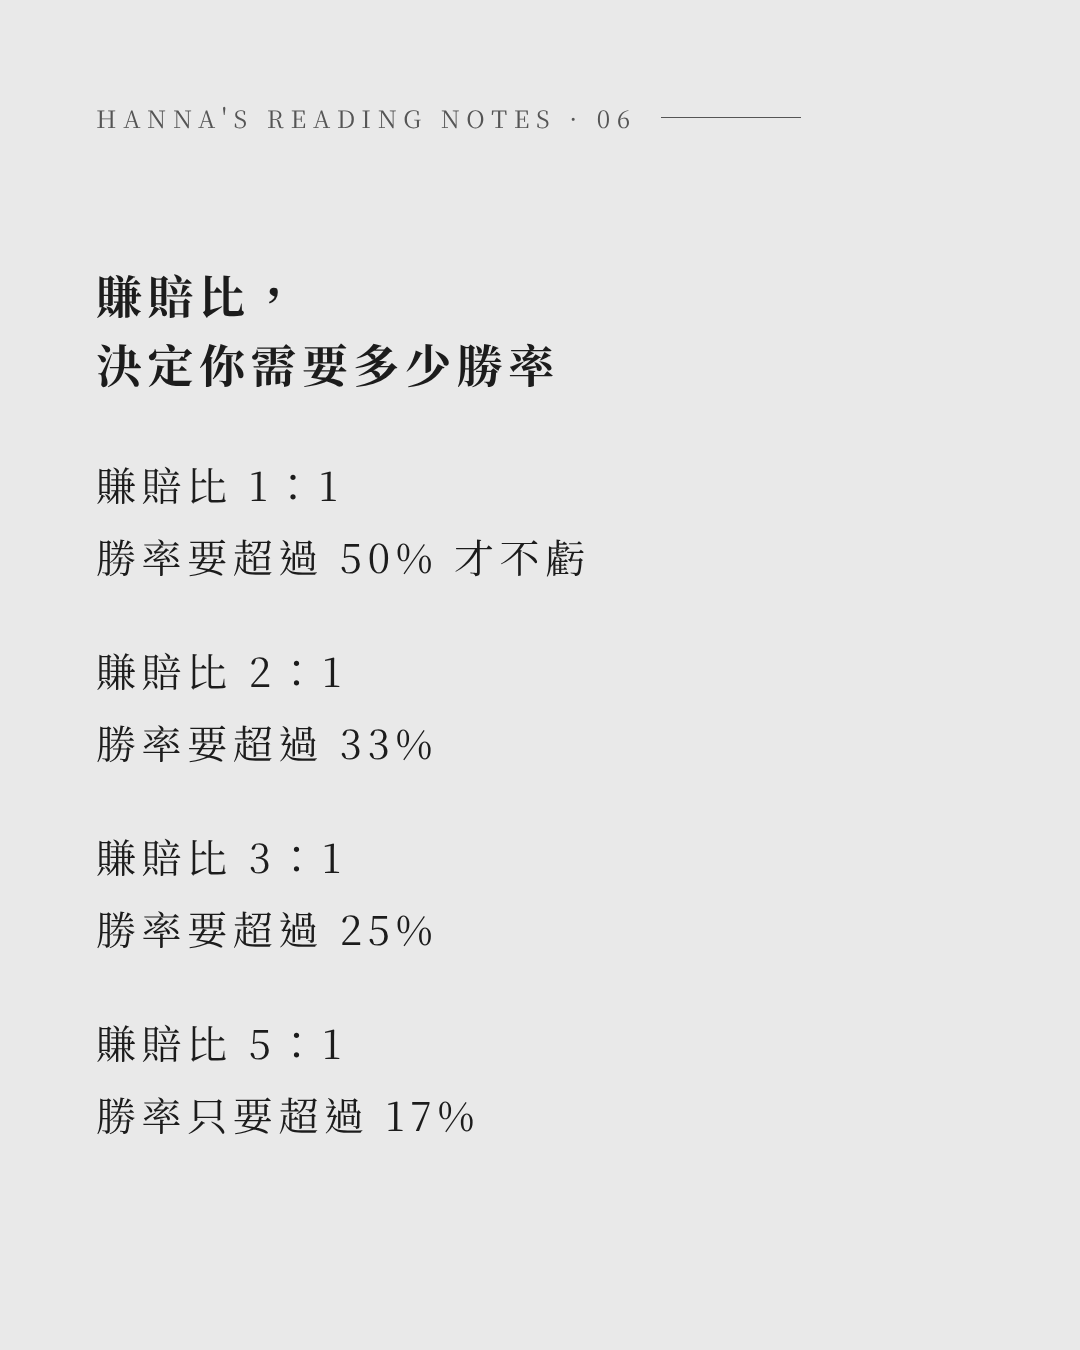
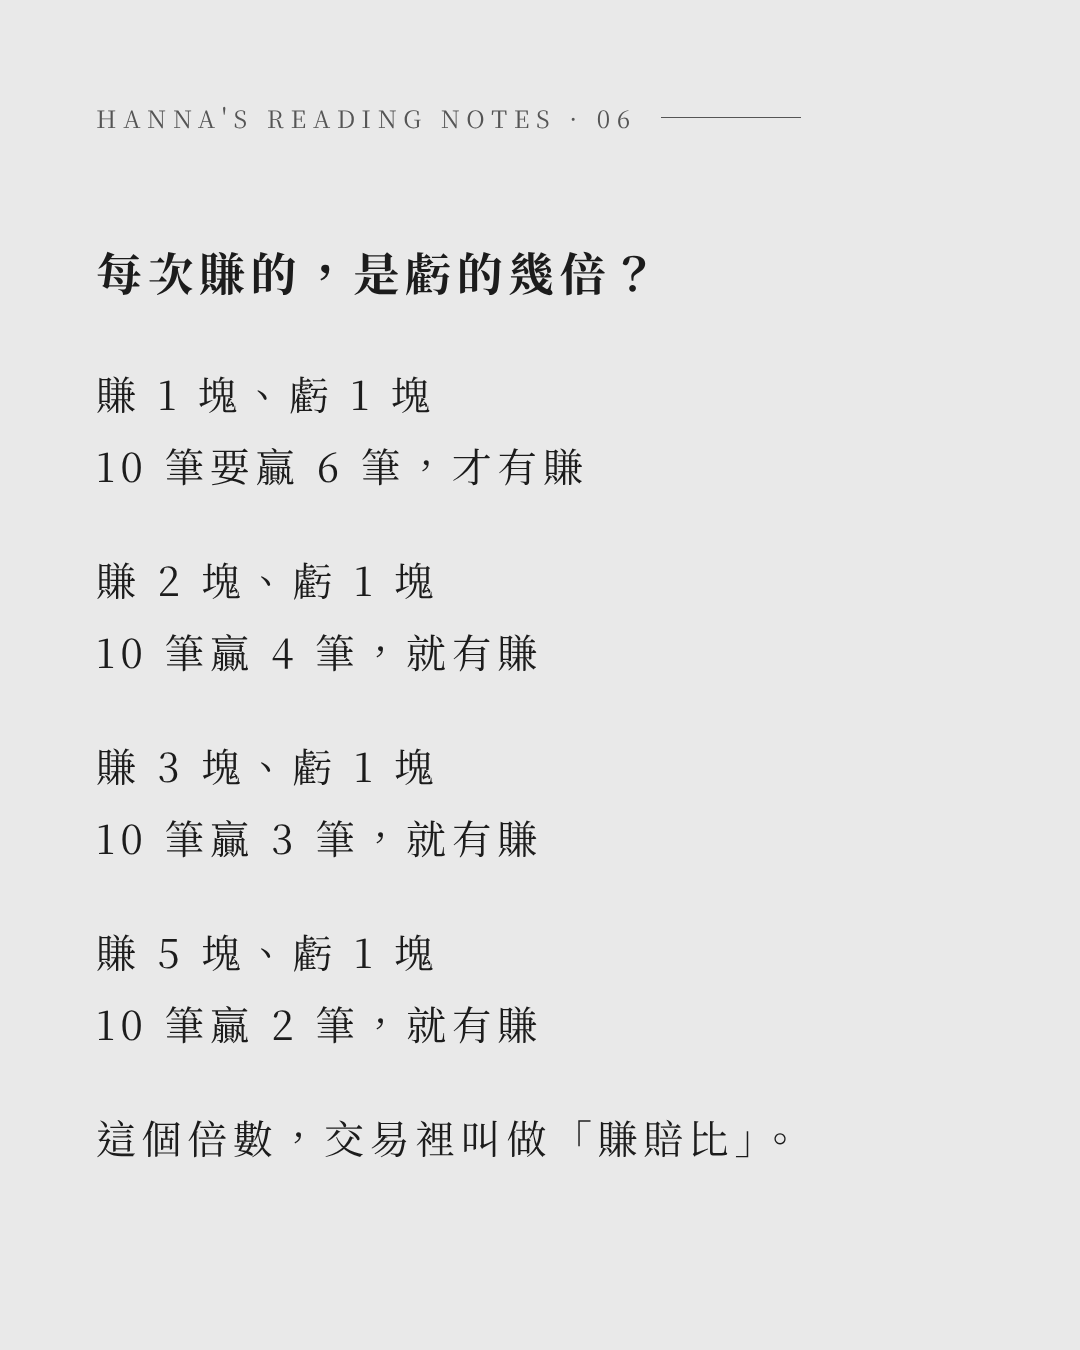
賺賠比輪播：術語改成新手看得懂的白話，規格加上不用術語的規則
Claude-Session: https://claude.ai/code/session_01AFjNkU8XspDCm6xvkskaQj

diff --git a/IP經營/輪播_賺賠比/slides.html b/IP經營/輪播_賺賠比/slides.html
@@ -70,7 +70,7 @@
   <p>交易，也常常是這樣。</p>
   <p>每筆賺 1,000，賺了 8 筆，<br>一共 +8,000。</p>
   <p>虧的那 2 筆，<br>每筆虧 5,000，<br>一共 −10,000。</p>
-  <p>勝率 80%，<br>帳戶反而少了 2,000。</p>
+  <p>10 筆贏了 8 筆，<br>帳戶反而少了 2,000。</p>
   <p>但有一個人，剛好反過來。</p>
 </div></section>
 
@@ -90,24 +90,25 @@
 </div></section>
 
 <section class="slide"><div class="body">
-  <h2>賺賠比，<br>決定你需要多少勝率</h2>
-  <p>賺賠比 1：1<br>勝率要超過 50% 才不虧</p>
-  <p>賺賠比 2：1<br>勝率要超過 33%</p>
-  <p>賺賠比 3：1<br>勝率要超過 25%</p>
-  <p>賺賠比 5：1<br>勝率只要超過 17%</p>
+  <h2>每次賺的，是虧的幾倍？</h2>
+  <p>賺 1 塊、虧 1 塊<br>10 筆要贏 6 筆，才有賺</p>
+  <p>賺 2 塊、虧 1 塊<br>10 筆贏 4 筆，就有賺</p>
+  <p>賺 3 塊、虧 1 塊<br>10 筆贏 3 筆，就有賺</p>
+  <p>賺 5 塊、虧 1 塊<br>10 筆贏 2 筆，就有賺</p>
+  <p>這個倍數，交易裡叫做「賺賠比」。</p>
 </div></section>
 
 <section class="slide"><div class="body">
-  <h2>勝率高，<br>不代表會賺錢</h2>
+  <h2>贏得多，<br>不代表會賺錢</h2>
   <p>很多人追求每一筆都要贏，<br>於是賺一點就跑，<br>虧了卻一直抱。</p>
-  <p>勝率很漂亮，<br>帳戶卻很難看。</p>
+  <p>贏的次數很漂亮，<br>帳戶卻很難看。</p>
   <p>真正決定結果的，<br>是贏的時候賺多少，<br>輸的時候虧多少。</p>
 </div></section>
 
 <section class="slide"><div class="body">
-  <p>但賺賠比高，也有代價。</p>
-  <p>勝率通常會變低，<br>連虧 5、6 筆很正常。</p>
-  <p>如果你受不了連續虧損，<br>再好的賺賠比也守不住。</p>
+  <p>但每次想賺多一點，<br>也有代價。</p>
+  <p>贏的次數通常會變少，<br>連虧 5、6 筆很正常。</p>
+  <p>如果你受不了連續虧損，<br>再好的比例也守不住。</p>
   <p>找到自己做得到的比例，<br>比追求最高的比例更重要。</p>
 </div></section>
 
@@ -120,7 +121,7 @@
 
 <section class="slide end"><div class="body">
   <p>交易不是比誰贏得多，<br>是比誰虧的時候虧得少。</p>
-  <p>留言告訴我：<br>你現在每一筆的賺賠比，<br>大概是多少？</p>
+  <p>留言告訴我：<br>你每一筆想賺的，<br>大概是虧的幾倍？</p>
   <div class="save">
     <p class="t"><svg viewBox="0 0 20 24"><path d="M2 1h16v22l-8-6-8 6z" fill="none" stroke="currentColor" stroke-width="2.2" stroke-linejoin="round"/></svg>先把這篇存起來</p>
     <p>下次又賺小賠大時，<br>打開來，再算一次。</p>

diff --git a/IP經營/輪播貼文_賺賠比.md b/IP經營/輪播貼文_賺賠比.md
@@ -1,4 +1,4 @@
-# 輪播貼文 08：勝率高，不代表會賺錢
+# 輪播貼文 08：贏得多，不代表會賺錢
 
 圖檔：`IP經營/輪播_賺賠比/01.png`～`10.png`
 人物：Paul Tudor Jones（封面不顯示姓名，第 5 張揭曉）
@@ -8,7 +8,7 @@
 - 封面用讀者算得出來的數字（10 筆賺 8 筆）
 - 第 2 張接生活場景（省早餐錢、一次衝動消費）
 - 名人故事壓在第 4、5 張
-- 第 6 張放可收藏的「賺賠比 vs 需要的勝率」對照表
+- 第 6 張放可收藏的「賺的是虧的幾倍 vs 10 筆要贏幾筆」對照表，用白話說明，最後才帶出「賺賠比」這個詞
 - 最後一張：好回答的留言問題 + 追蹤理由
 
 ## 貼文說明文字（Caption）
@@ -25,7 +25,7 @@
 
 每筆賺 1,000，賺了 8 筆，一共 +8,000。
 虧的那 2 筆，每筆虧 5,000，一共 −10,000。
-勝率 80%，帳戶反而少了 2,000。
+10 筆贏了 8 筆，帳戶反而少了 2,000。
 
 但有一個人，剛好反過來。
 
@@ -39,14 +39,16 @@
 因為多數人都在追求「每一筆都要贏」。
 
 於是賺一點就跑，虧了卻一直抱。
-勝率很漂亮，帳戶卻很難看。
+贏的次數很漂亮，帳戶卻很難看。
 
 多數人卡住，不是看不準，
 是贏的時候賺太少，輸的時候虧太多。
 
-賺賠比 1：1，勝率要超過 50% 才不虧。
-賺賠比 2：1，勝率超過 33% 就夠。
-賺賠比 3：1，勝率超過 25% 就夠。
+賺 1 塊、虧 1 塊，10 筆要贏 6 筆才有賺。
+賺 2 塊、虧 1 塊，10 筆贏 4 筆就有賺。
+賺 3 塊、虧 1 塊，10 筆贏 3 筆就有賺。
+
+這個倍數，交易裡叫做「賺賠比」。
 
 所以下單之前，先問自己三個問題：
 
@@ -54,13 +56,13 @@
 ② 這筆合理能賺多少？至少是虧損的 2 倍嗎？
 ③ 如果連虧 5 筆，我還能照計畫做下去嗎？
 
-最危險的從來不是勝率低，
+最危險的從來不是贏得少，
 是賺小賠大，還以為自己很會贏。
 
 📌 存起來，下次又賺小賠大時，再算一次。
 
 留言告訴我：
-你現在每一筆的賺賠比，大概是多少？
+你每一筆想賺的，大概是虧的幾倍？
 
 追蹤 @_hannapang，每週一篇交易心理筆記。
 
